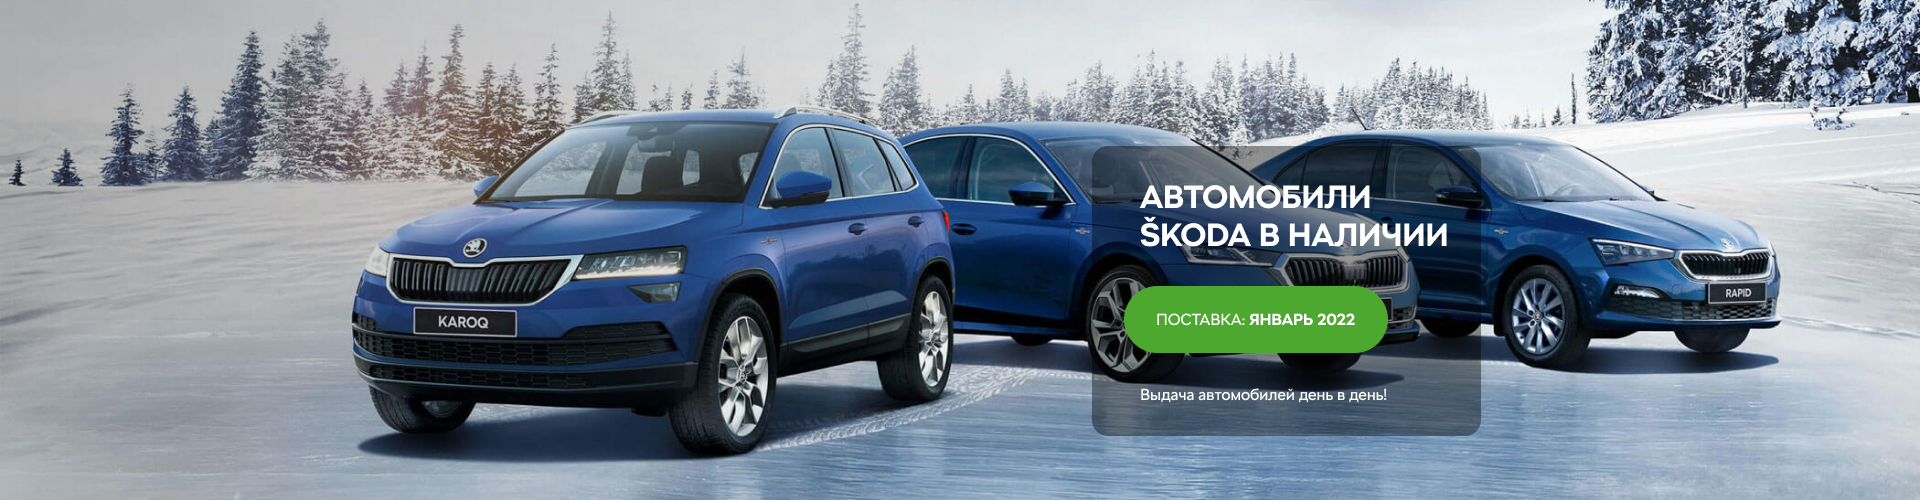
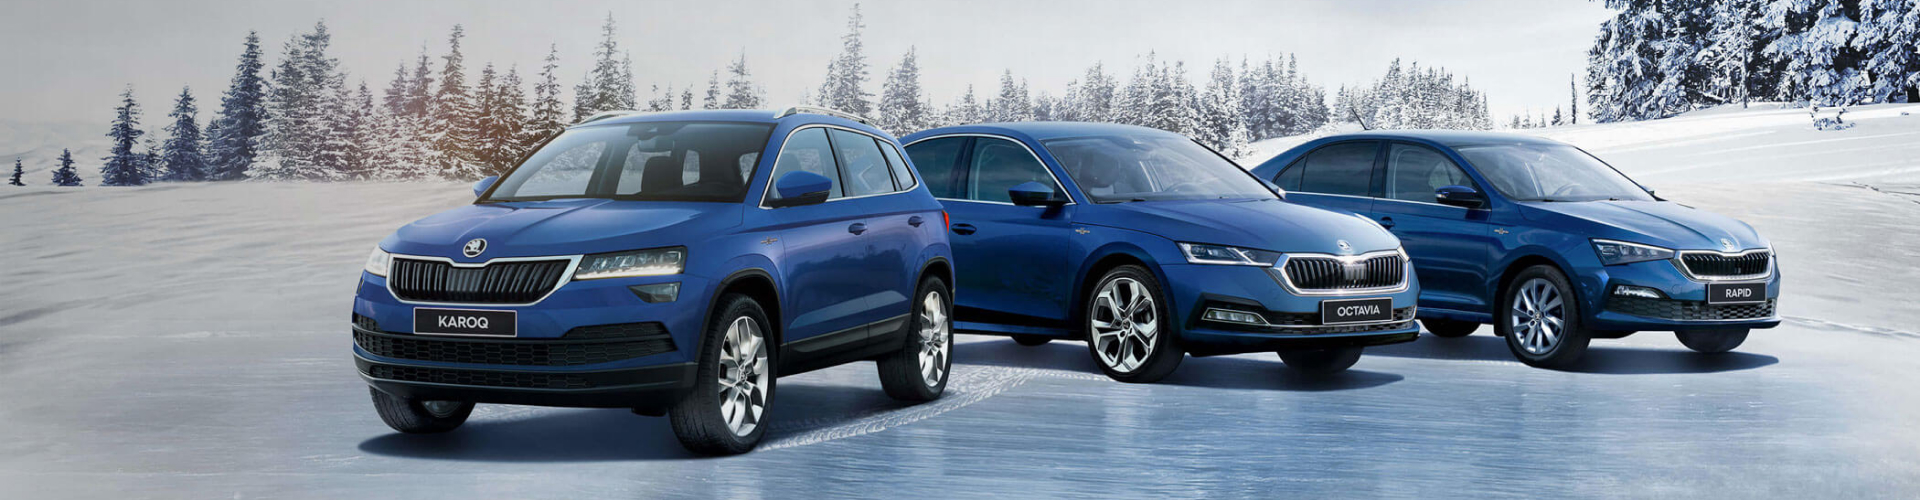
Стилизация блока наличие

Changed region(s): [[0.5625, 0.27, 0.7812, 0.87]]

diff --git a/build/css/style.min.css b/build/css/style.min.css
@@ -1,2 +1,2 @@
-@font-face{font-family:"SKODANext";font-weight:400;font-style:normal;font-display:swap;src:url(../fonts/SKODANext-Regular.woff2) format("woff2"),url(../fonts/SKODANext-Regular.woff) format("woff")}@font-face{font-family:"SKODANext";font-weight:700;font-style:normal;font-display:swap;src:url(../fonts/SKODANext-Bold.woff2) format("woff2"),url(../fonts/SKODANext-Bold.woff) format("woff")}@font-face{font-family:"SKODANext";font-weight:300;font-style:normal;font-display:swap;src:url(../fonts/SKODANext-Light.woff2) format("woff2"),url(../fonts/SKODANext-Light.woff) format("woff")}.visually-hidden{position:absolute;width:1px;height:1px;margin:-1px;border:0;padding:0;white-space:nowrap;-webkit-clip-path:inset(100%);clip-path:inset(100%);clip:rect(0 0 0 0);overflow:hidden}.container{min-width:375px;margin:0 auto;box-sizing:border-box;padding:0 15px}@media (min-width:828px){.container{padding:0 30px}}@media (min-width:1124px){.container{padding:0 50px}}@media (min-width:1380px){.container{padding:0;max-width:1280px}}.button{display:inline-flex;box-sizing:border-box;text-decoration:none;padding:5px 10px;width:194px;height:52px;background:#4da82f;border-radius:50px;font-size:16px;line-height:140%;align-items:center;justify-content:center;color:#fff;cursor:pointer}.contacts,.contacts__logo{display:flex;justify-content:space-between;align-items:center}.contacts__logo{text-decoration:none;width:110px;justify-content:center}.contacts__logo-img{display:block;width:100%;height:auto;-o-object-fit:contein;object-fit:contein}.contacts__address,.contacts__regime{line-height:140%;font-weight:300;max-width:166px;display:none;margin:0}.contacts__address::before{width:14px;height:16px;background-image:url(../img/icons/mark-address.svg);padding-right:10px}.contacts__regime{max-width:160px}.contacts__address::before,.contacts__button::before,.contacts__regime::before{content:"";display:block;background-repeat:no-repeat;background-position:center center}.contacts__regime::before{width:18px;height:18px;background-image:url(../img/icons/mark-regime.svg);padding-right:10px}.contacts__phone{font-size:14px;line-height:140%;margin-left:40px;text-decoration:none;color:#000;cursor:pointer}.contacts__button{width:40px;height:40px}.contacts__button::before{width:16px;height:16px;background-image:url(../img/icons/phone.svg)}.contacts__text-button{font-size:16px;line-height:140%;color:#fff;display:none}@media (min-width:828px){.contacts__address,.contacts__regime{display:flex}.contacts__phone{margin-left:0}.contacts__button{width:150px;min-height:44px}.contacts__button::before{display:none}.contacts__text-button{display:inline}}@media (min-width:1124px){.container{padding:0 50px}.contacts__phone{font-size:24px}}@media (min-width:1380px){.container{padding:0;max-width:1280px}}.text-title{font-weight:700;font-size:24px;line-height:120%;text-transform:uppercase}.page{font-family:"SKODANext",sans-serif;font-style:normal;font-weight:400;font-size:14px;line-height:120%;color:#000}.page__body{margin:0;display:grid;grid-template-rows:-webkit-min-content 1fr -webkit-min-content;grid-template-rows:min-content 1fr min-content;align-content:start;min-height:100vh;background-color:#fff}.test{width:200px;height:50px;background-color:red}.header{min-height:74px}.header__container{height:100%}@media (min-width:1124px){.header{min-height:80px}}.available{min-height:240px;position:relative}.available__img{width:100%;height:auto;-o-object-fit:cover;object-fit:cover;display:block}.available__info{position:absolute;width:306px;min-height:90px;left:5%;top:7%;background:rgba(0,0,0,.4);border-radius:16px;padding:16px}.available__h2{font-size:16px;line-height:140%;color:#fff}.available__button{width:157px;height:28px;background:#4da82f;border-radius:64px;padding:8px 16px;font-size:10px;line-height:120%;text-transform:uppercase;color:#fff}.available__text,.footer{display:none}
+@font-face{font-family:"SKODANext";font-weight:400;font-style:normal;font-display:swap;src:url(../fonts/SKODANext-Regular.woff2) format("woff2"),url(../fonts/SKODANext-Regular.woff) format("woff")}@font-face{font-family:"SKODANext";font-weight:700;font-style:normal;font-display:swap;src:url(../fonts/SKODANext-Bold.woff2) format("woff2"),url(../fonts/SKODANext-Bold.woff) format("woff")}@font-face{font-family:"SKODANext";font-weight:300;font-style:normal;font-display:swap;src:url(../fonts/SKODANext-Light.woff2) format("woff2"),url(../fonts/SKODANext-Light.woff) format("woff")}.visually-hidden{position:absolute;width:1px;height:1px;margin:-1px;border:0;padding:0;white-space:nowrap;-webkit-clip-path:inset(100%);clip-path:inset(100%);clip:rect(0 0 0 0);overflow:hidden}.container{min-width:375px;margin:0 auto;box-sizing:border-box;padding:0 15px}@media (min-width:828px){.container{padding:0 30px}}@media (min-width:1124px){.container{padding:0 50px}}@media (min-width:1380px){.container{padding:0;max-width:1280px}}.button{display:inline-flex;box-sizing:border-box;text-decoration:none;padding:5px 10px;width:194px;height:52px;background:#4da82f;border-radius:50px;font-size:16px;line-height:140%;align-items:center;justify-content:center;color:#fff;cursor:pointer}.contacts,.contacts__logo{display:flex;justify-content:space-between;align-items:center}.contacts__logo{text-decoration:none;width:110px;justify-content:center}.contacts__logo-img{display:block;width:100%;height:auto;-o-object-fit:contein;object-fit:contein}.contacts__address,.contacts__regime{line-height:140%;font-weight:300;max-width:166px;display:none;margin:0}.contacts__address::before{width:14px;height:16px;background-image:url(../img/icons/mark-address.svg);padding-right:10px}.contacts__regime{max-width:160px}.contacts__address::before,.contacts__button::before,.contacts__regime::before{content:"";display:block;background-repeat:no-repeat;background-position:center center}.contacts__regime::before{width:18px;height:18px;background-image:url(../img/icons/mark-regime.svg);padding-right:10px}.contacts__phone{font-size:14px;line-height:140%;margin-left:40px;text-decoration:none;color:#000;cursor:pointer}.contacts__button{width:40px;height:40px}.contacts__button::before{width:16px;height:16px;background-image:url(../img/icons/phone.svg)}.contacts__text-button{font-size:16px;line-height:140%;color:#fff;display:none}@media (min-width:828px){.contacts__address,.contacts__regime{display:flex}.contacts__phone{margin-left:0}.contacts__button{width:150px;min-height:44px}.contacts__button::before{display:none}.contacts__text-button{display:inline}}@media (min-width:1124px){.container{padding:0 50px}.contacts__phone{font-size:24px}}@media (min-width:1380px){.container{padding:0;max-width:1280px}}.text-title{font-weight:700;font-size:24px;line-height:120%;text-transform:uppercase}.page{font-family:"SKODANext",sans-serif;font-style:normal;font-weight:400;font-size:14px;line-height:120%;color:#000}.page__body{margin:0;display:grid;grid-template-rows:-webkit-min-content 1fr -webkit-min-content;grid-template-rows:min-content 1fr min-content;align-content:start;min-height:100vh;background-color:#fff}.test{width:200px;height:50px;background-color:red}.header{min-height:74px}.header__container{height:100%}@media (min-width:1124px){.header{min-height:80px}}.available{min-height:240px;position:relative}.available__img{width:100%;height:100%;-o-object-fit:cover;object-fit:cover;display:block}.available__info{position:absolute;width:306px;min-height:90px;left:5%;top:7%;background:rgba(0,0,0,.4);border-radius:16px;padding:16px}.available__h2{font-size:16px;line-height:140%;color:#fff}.available__button{width:157px;height:28px;background:#4da82f;border-radius:64px;padding:8px 16px;font-size:10px;line-height:120%;text-transform:uppercase;color:#fff}.available__text{display:none}@media (min-width:1124px){.available{min-height:500px}.available__info{width:389px;min-height:290px;left:calc(1092/1920*100%);top:calc(146/500*100%)}}.footer{display:none}
 /*# sourceMappingURL=style.min.css.map */

diff --git a/build/index.html b/build/index.html
@@ -4,7 +4,7 @@
   <link rel="apple-touch-icon" href="img/#favicon/32.png">
   <link rel="apple-touch-icon" href="img/#favicon/180.png">
   <link rel="manifest" href="manifest.webmanifest"> --><link rel="stylesheet" href="css/style.min.css"><!-- <link rel="preload" href="fonts/ptsans.woff2" as="font" type="font/woff2" crossorigin>
-  <link rel="preload" href="font s/ptsansbold.woff2" as="font" type="font/woff2" crossorigin> --></head><body class="page__body"><!-- Хедер --><header class="header"><div class="header__container container contacts"><a href="#" class="contacts__logo"><picture><source media="(min-width: ($min-width-tablet+60px))" srcset="img/contacts/logo.png"><img src="img/contacts/logo-mobile.png" alt="Логотип компании Шкода" class="contacts__logo-img" width="109" height="34"></picture></a><p class="contacts__address">г. Москва ул.Тверская-Ямская, д. 123</p><p class="contacts__regime">Ежедневно с 9:00 до 21:00</p><a href="tel: +78000000000" class="contacts__phone">8(800)000-00-00</a> <a href="#" class="contacts__button button"><span class="contacts__text-button">Обратный звонок</span></a></div></header><main class="main"><h1 class="main__h1 visually-hidden">Предлагаемые автосалоном Шкода товары и услуги</h1><!-- Авто в наличие --><section class="available"><picture><source type="image/webp" media="(min-width:($min-width-tablet+60px))" srcset="img/available/fon.webp"><source type="image/webp" srcset="img//available/fon-mobile.webp"><source media="(min-width:($min-width-tablet+60px))" srcset="img/available/fon.jpg"><img src="img/available/fon-mobile.jpg" alt="Группа автомобилей Шкода на льду" class="available__img"></picture><div class="available__info"><h2 class="available__h2 text-title">Автомобили Шкода в наличии</h2><a href="" class="available__button button">Поставка: январь 2022</a><p class="available__text">Выдача автомобилей день в день</p></div></section><!--  Допуслуги --><!-- <section class="servis-add">
+  <link rel="preload" href="font s/ptsansbold.woff2" as="font" type="font/woff2" crossorigin> --></head><body class="page__body"><!-- Хедер --><header class="header"><div class="header__container container contacts"><a href="#" class="contacts__logo"><picture><source type="image/webp" media="(min-width: 828px)" srcset="img/contacts/logo.webp"><source type="image/webp" srcset="img//contacts/logo-mobile.webp"><source media="(min-width: 828px)" srcset="img/contacts/logo.png"><img src="img/contacts/logo-mobile.png" alt="Логотип компании Шкода" class="contacts__logo-img" width="109" height="34"></picture></a><p class="contacts__address">г. Москва ул.Тверская-Ямская, д. 123</p><p class="contacts__regime">Ежедневно с 9:00 до 21:00</p><a href="tel: +78000000000" class="contacts__phone">8(800)000-00-00</a> <a href="#" class="contacts__button button"><span class="contacts__text-button">Обратный звонок</span></a></div></header><main class="main"><h1 class="main__h1 visually-hidden">Предлагаемые автосалоном Шкода товары и услуги</h1><!-- Авто в наличие --><section class="available"><picture><source type="image/webp" media="(min-width: 828px)" srcset="img/available/fon.webp"><source type="image/webp" srcset="img//available/fon-mobile.webp"><source media="(min-width: 828px" srcset="img/available/fon.jpg"><img src="img/available/fon-mobile.jpg" alt="Группа автомобилей Шкода на льду" class="available__img"></picture><div class="available__info"><h2 class="available__h2 text-title">Автомобили Шкода в наличии</h2><a href="" class="available__button button">Поставка: январь 2022</a><p class="available__text">Выдача автомобилей день в день</p></div></section><!--  Допуслуги --><!-- <section class="servis-add">
       <h2 class="servis-add__h2 visually-hidden">Дополнительные услуги.</h2>
       <ul class="servis-add__list container">
         <li class="servis-add__item">

diff --git a/source/index.html b/source/index.html
@@ -23,7 +23,9 @@
       <a href="#" class="contacts__logo">
 
         <picture>
-          <source media="(min-width: ($min-width-tablet+60px))" srcset="img/contacts/logo.png">
+          <source type="image/webp" media="(min-width: 828px)" srcset="img/contacts/logo.webp 1x">
+          <source type="image/webp" srcset="img//contacts/logo-mobile.webp 1x">
+          <source media="(min-width: 828px)" srcset="img/contacts/logo.png">
           <img src="img/contacts/logo-mobile.png" alt="Логотип компании Шкода" class="contacts__logo-img" width="109"
             height="34">
         </picture>
@@ -42,9 +44,9 @@
     <!-- Авто в наличие -->
     <section class="available">
       <picture>
-        <source type="image/webp" media="(min-width:($min-width-tablet+60px))" srcset="img/available/fon.webp 1x">
+        <source type="image/webp" media="(min-width: 828px)" srcset="img/available/fon.webp 1x">
         <source type="image/webp" srcset="img//available/fon-mobile.webp 1x">
-        <source media="(min-width:($min-width-tablet+60px))" srcset="img/available/fon.jpg">
+        <source media="(min-width: 828px" srcset="img/available/fon.jpg">
         <img src="img/available/fon-mobile.jpg" alt="Группа автомобилей Шкода на льду" class="available__img">
       </picture>
 

diff --git a/build/css/style.css b/build/css/style.css
@@ -217,7 +217,7 @@
 
 .available__img {
   width: 100%;
-  height: auto;
+  height: 100%;
   -o-object-fit: cover;
      object-fit: cover;
   display: block; }
@@ -250,6 +250,15 @@
 
 .available__text {
   display: none; }
+
+@media (min-width: 1124px) {
+  .available {
+    min-height: 500px; }
+  .available__info {
+    width: 389px;
+    min-height: 290px;
+    left: calc(1092/1920*100%);
+    top: calc(146/500*100%); } }
 
 .footer {
   display: none; }

diff --git a/source/sass/structural blocks/avialable.scss b/source/sass/structural blocks/avialable.scss
@@ -5,7 +5,7 @@
 
 .available__img {
   width: 100%;
-  height: auto;
+  height: 100%;
   object-fit: cover;
   display: block;
 }
@@ -45,4 +45,20 @@
 
 .available__text {
   display: none;
+}
+
+@media (min-width: ($min-width-desktop + 100px)) {
+  .available {
+    min-height: 500px;
+  }
+
+  .available__info {
+    width: 389px;
+    min-height: 290px;
+    left: calc(1092/1920*100%);
+    top: calc(146/500*100%);
+
+  }
+
+
 }
